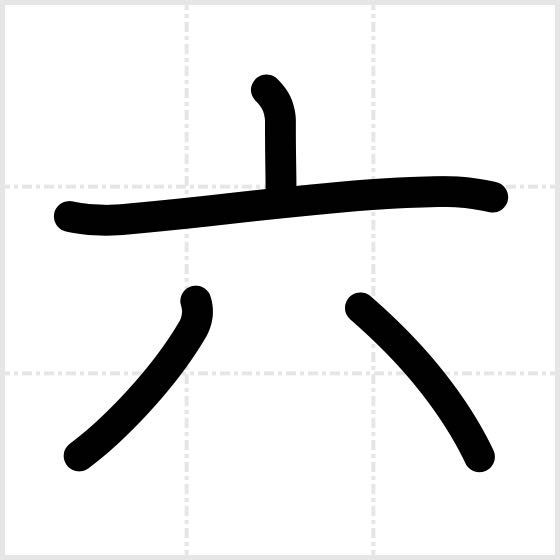
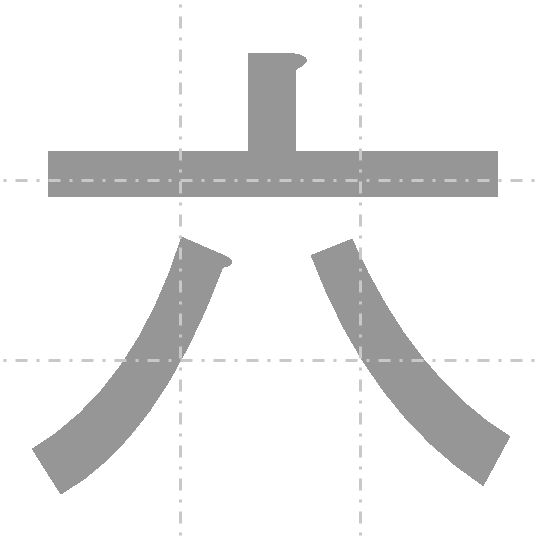
Images
Images update

diff --git a/src/match/JF_Board.java b/src/match/JF_Board.java
@@ -27,8 +27,8 @@ public class JF_Board {
     private JPanel gui;
     
     // Image boundaries [width x height]
-    private int width = 320;
-    private int height = 240;
+    static private int width = 540;
+    static private int height = 540;
     
     // Image used to make changes.
     private BufferedImage canvasImage;
@@ -41,9 +41,10 @@ public class JF_Board {
     // The color used to make a carbon copy of the images
     private Color colorWhite = new Color(255, 255, 255); //WHITE COLOR
     private Color colorGray = new Color(150, 150, 150); //GRAY COLOR
+    private Color colorGrayBG = new Color(200, 200, 200); //BACKGROUND GRAY COLOR
     
     // Strokes to hand drawing and carbon copies
-    private Stroke stroke = new BasicStroke(15,BasicStroke.CAP_ROUND,BasicStroke.JOIN_ROUND,10.0F);
+    private Stroke stroke = new BasicStroke(60,BasicStroke.CAP_ROUND,BasicStroke.JOIN_ROUND,10.0F);
     private Stroke pixelStroke = new BasicStroke(1,BasicStroke.CAP_SQUARE,BasicStroke.JOIN_ROUND,10.0F);
     
     // RenderingHints options
@@ -72,7 +73,7 @@ public class JF_Board {
 
             // Set the canvasImage as Label icon
       		imageLabel = new JLabel(new ImageIcon(canvasImage));
-      		imageLabel.setBounds(1, 1, width+1, height+1);
+      		imageLabel.setBounds(0, 0, width, height);
       		
       		// Initialize the imageView Panel boundaries [width x height].
             JPanel imageView = new JPanel();
@@ -82,7 +83,7 @@ public class JF_Board {
             
       		// Creates the ScrollPane and adds the imageView to it.
       		JScrollPane imageScroll = new JScrollPane(imageView);
-      		imageScroll.setBounds(1, 1, width+5, height+5);
+      		imageScroll.setBounds(1, 1, width, height);
       		
       		// Add the mouse listeners to imageLabel 
       		imageLabel.addMouseMotionListener(new ImageMouseMotionListener());
@@ -97,7 +98,7 @@ public class JF_Board {
             };
             // Creates the Clear button
             JButton clearButton = new JButton("Clear");
-            clearButton.setBounds(130, 250, 60, 30);
+            clearButton.setBounds(250, 550, 60, 30);
             clearButton.addActionListener(clearListener);
     
             // Adds the imageScroll and ClearButton to the gui panel.
@@ -107,7 +108,7 @@ public class JF_Board {
            
             lbScore.setHorizontalAlignment(SwingConstants.CENTER);
             lbScore.setFont(new Font("Tahoma", Font.PLAIN, 30));
-            lbScore.setBounds(200, 250, 104, 27);
+            lbScore.setBounds(350, 550, 104, 27);
             gui.add(lbScore);
             
             // Clear the canvasImage at the start.
@@ -118,7 +119,7 @@ public class JF_Board {
     // Set the image to the canvas and pastes it to the GUI.
     public void setImage(BufferedImage image) {
         // Initialize the canvasImage with the image values.
-        canvasImage = new BufferedImage(width+1,height+1,BufferedImage.TYPE_INT_RGB);  //ANTES TYPE_INT_ARGB
+        canvasImage = new BufferedImage(width,height,BufferedImage.TYPE_INT_RGB);  //ANTES TYPE_INT_ARGB
         // Creates a 2D graph from canvasImage.
         Graphics2D g = this.canvasImage.createGraphics();
         g.setRenderingHints(renderingHints);
@@ -132,7 +133,7 @@ public class JF_Board {
     public void clear(BufferedImage canvas){
     	BufferedImage img = null;
         try {
-      		img = ImageIO.read(new File("C:/Users/acunaarl/Documents/GitHub/Japaneasy/src/img/year.png"));
+      		img = ImageIO.read(new File("C:/Users/acunaarl/Documents/GitHub/Japaneasy/src/img/999.png"));
       	} catch (IOException ex) {
       		ex.printStackTrace();
       	}
@@ -141,9 +142,9 @@ public class JF_Board {
         Graphics2D canvasG = canvas.createGraphics();
         
         
-        for(int x=1; x<320; x++){
-        	for(int y=1; y<240; y++){
-            	  // Getting pixel color by position x and y 
+        for(int x=0; x<width; x++){
+        	for(int y=0; y<height; y++){
+            	  // Getting pixel color by position x and y
                	  int pixel=  img.getRGB(x,y); 
                	  int  red   = (pixel & 0x00ff0000) >> 16;
                	  int  green = (pixel & 0x0000ff00) >> 8;
@@ -152,7 +153,9 @@ public class JF_Board {
                	  if (red==255 && green==255 && blue==255){   // WHITE COLOR
                	  //if (red==150 && green==150 && blue==150){
                		  canvasG.setColor(colorWhite);
-               	  } else {
+               	  } else if (red==200 && green==200 && blue==200){   // BACKGROUND GRAY COLOR
+               		  canvasG.setColor(colorGrayBG);
+               	  } else{
                		  canvasG.setColor(colorGray);
                	  }
                	  
@@ -245,7 +248,7 @@ public class JF_Board {
         else if (negro < (black * 0.90) && gris < (gray * 0.22)){
         	lbScore.setText("lllllllll.");
         }
-        else if (negro > (black * 1.10) && gris < (gray * 0.02)){
+        else if (negro > (black * 1.08) && gris < (gray * 0.02)){
         	lbScore.setText("llllllllll");
         	JOptionPane.showMessageDialog(gui, "Well done!!!");
         } 
@@ -282,7 +285,7 @@ public class JF_Board {
         medir();
     }
     
-    
+    /*
     public void mierda(){
     	Color myWhite = new Color(150, 0, 0); // Color white
         int rgb = myWhite.getRGB();
@@ -297,7 +300,7 @@ public class JF_Board {
         	}
         }
     }
-    
+    */
 
     class ImageMouseListener extends MouseAdapter {
         @Override
@@ -345,7 +348,7 @@ public class JF_Board {
                 f.setContentPane(bp.getGui());
                 
                 f.pack();
-                f.setSize(343, 325);
+                f.setSize(width+18, height+100);
                 f.setMinimumSize(f.getSize());
                 f.setVisible(true);
             }
